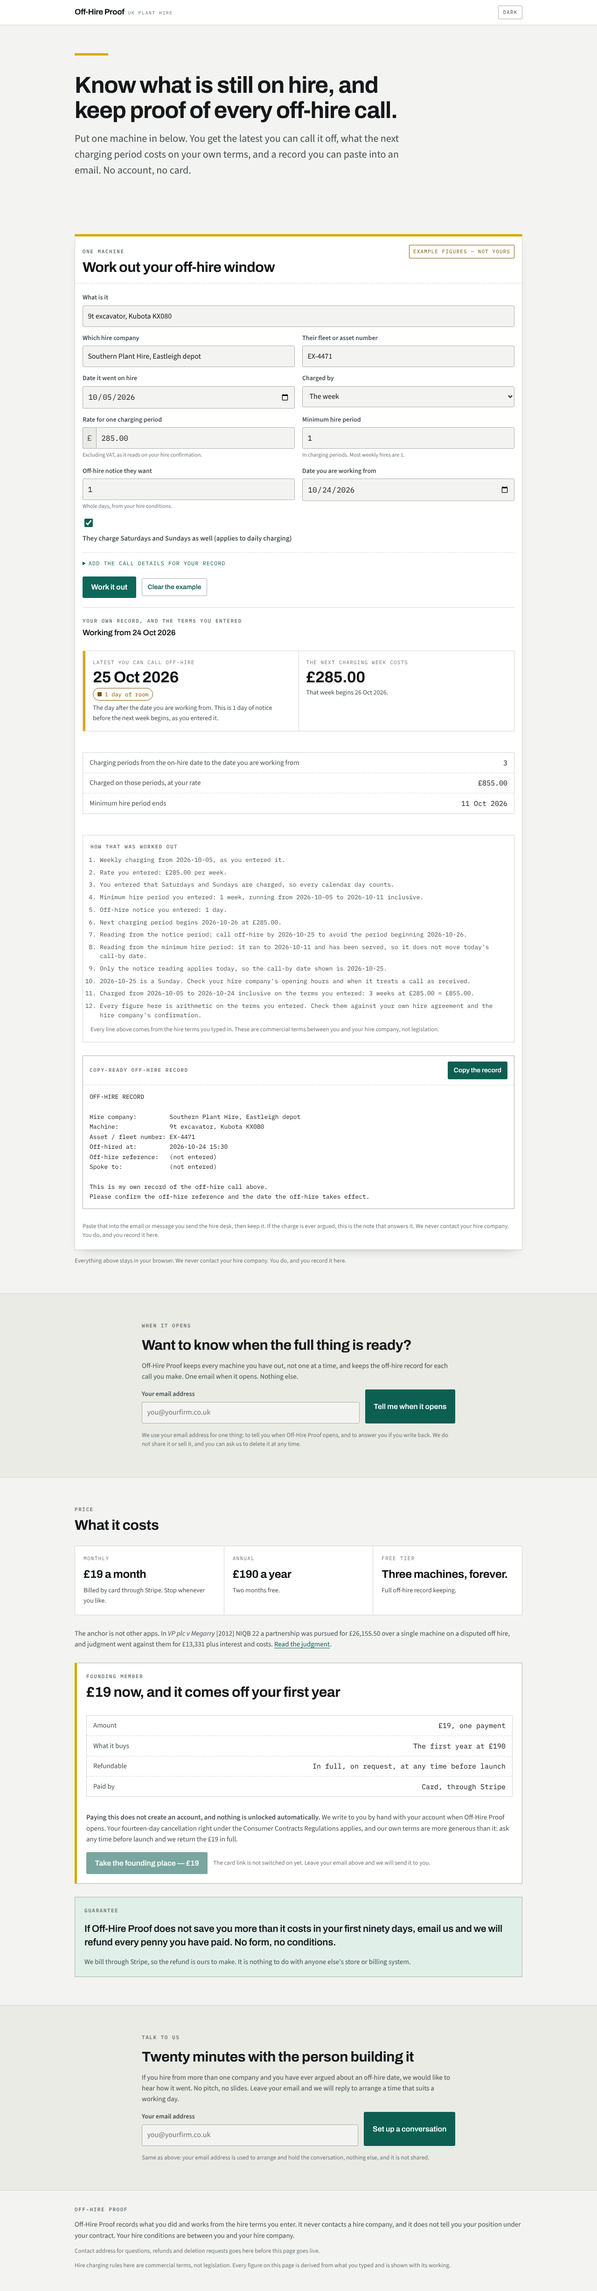
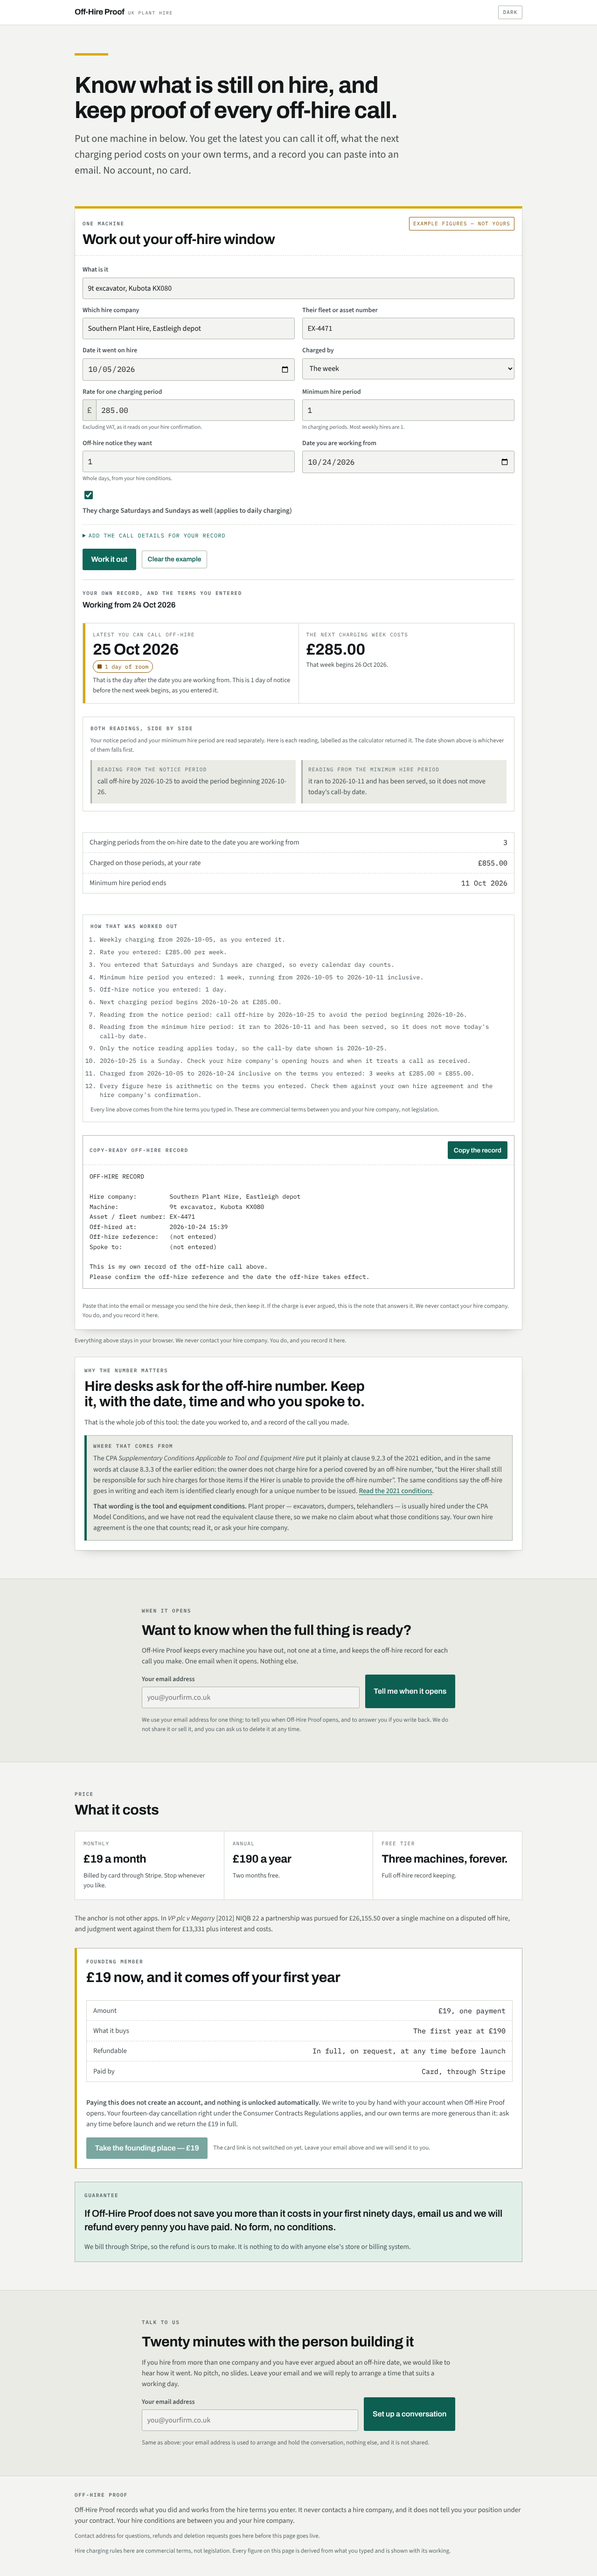
Correct the price anchor: I misread the Megarry judgment
Read the judgment in full from the NI judiciary site. The case is real —
VP plc v Megarry [2012] NIQB 22, Weatherup J, 29 February 2012 — and the
GBP 26,155.50 claim and GBP 13,331 award are both accurate numbers. My
summary of what they mean was not.

What I had wrong: GBP 13,331 is a forfeited conditional purchase
discount, not hire charges. The machine was supplied on trial with a
purchase under negotiation, so this is not a plain forgot-to-off-hire
case, and the judge reasoned that failing to pay the rental forfeited a
discount granted on condition it was paid. Describing it as what a
disputed off-hire cost overstated it, and it was holding up the price.

What survives, and is the better argument anyway: the hirers believed
the machine was off hire because the hire company's own phone log
carried an entry reading "off hire" under 'reference'. The hire company
said it meant an automated reminder about a seven-day notice period. The
hirers had no record of their own and lost the point. That is precisely
the product.

OFFER.md now states the case accurately, bans any claim that a forgotten
off-hire costs GBP 13,331 in hire charges, and moves the pricing
rationale onto arithmetic a user can check: one missed weekly charge at
published rates exceeds a month of subscription.

Landing page rewritten to match — it now makes no claim about what a
forgotten off-hire costs.

Third citation problem on this product, two of them mine. All three were
[…]

Changed region(s): [[0.125, 0.0, 0.875, 0.9967], [0.5, 0.0934, 0.625, 0.218], [0.6875, 0.0934, 0.7812, 0.1246]]

diff --git a/landing/index.html b/landing/index.html
@@ -17,7 +17,7 @@
   --surface-2:#e9ebe4;
   --ink:#14181a;
   --ink-2:#464f52;
-  --ink-3:#6b7478;
+  --ink-3:#5d666a;
   --line:#d2d7ce;
   --line-strong:#a9b0a7;
   --accent:#0d5f52;
@@ -138,7 +138,8 @@ a:hover{text-decoration-thickness:2px}
 .themebtn:hover{color:var(--ink);border-color:var(--ink-3)}
 
 /* ---- hero ---- */
-.hero>.wrap{padding-block:clamp(1.75rem,5vw,3rem) clamp(1.25rem,3vw,1.75rem)}
+.hero>.wrap{padding-block:clamp(1.5rem,4vw,2.5rem) clamp(1rem,2vw,1.25rem)}
+#tool-section>.wrap{padding-block:0 clamp(2.25rem,6vw,3.75rem)}
 .hero h1{max-width:22em}
 .hero .lede{font-size:clamp(1.125rem,3.6vw,1.375rem);color:var(--ink-2)}
 .hirule{height:5px;width:4.5rem;background:var(--hivis);margin-bottom:1.25rem}
@@ -238,6 +239,9 @@ details.extras[open]>summary{margin-bottom:.875rem}
 .basis{border:1px solid var(--line);background:var(--surface);padding:1rem}
 .basis ol{margin:.65rem 0 0;padding-left:1.25rem;display:flex;flex-direction:column;gap:.45rem}
 .basis li{font-family:var(--font-data);font-size:.8125rem;line-height:1.5;color:var(--ink-2);overflow-wrap:anywhere}
+.readings{display:grid;grid-template-columns:1fr;gap:.75rem}
+@media (min-width:34rem){.readings{grid-template-columns:1fr 1fr}}
+.reading{display:flex;flex-direction:column;gap:.3rem;min-width:0;padding:.75rem;background:var(--surface-2);border-left:3px solid var(--line-strong);font-size:.9375rem;color:var(--ink-2)}
 
 .record{border:1px solid var(--line-strong);background:var(--surface)}
 .record__head{display:flex;flex-wrap:wrap;gap:.5rem;align-items:center;justify-content:space-between;padding:.75rem .875rem;border-bottom:1px dashed var(--line)}
@@ -397,6 +401,33 @@ footer.band>.wrap{padding-block:2rem 2.75rem;display:flex;flex-direction:column;
       </div>
     </div>
     <p class="fine" style="margin-top:.875rem">Everything above stays in your browser. We never contact your hire company. You do, and you record it here.</p>
+
+    <div class="card" style="margin-top:1.5rem">
+      <div class="stack">
+        <div class="stack stack--tight">
+          <p class="eyebrow">Why the number matters</p>
+          <h2>Hire desks ask for the off-hire number. Keep it, with the date, time and who you spoke to.</h2>
+        </div>
+        <p class="small">That is the whole job of this tool: the date you worked to, and a record of
+          the call you made.</p>
+        <div class="notice" style="border-left-color:var(--accent)">
+          <p class="eyebrow" style="margin-bottom:.4rem">Where that comes from</p>
+          <p>The CPA <em>Supplementary Conditions Applicable to Tool and Equipment Hire</em> put it
+            plainly at clause 9.2.3 of the 2021 edition, and in the same words at clause 8.3.3 of the
+            earlier edition: the owner does not charge hire for a period covered by an off-hire
+            number, <q>but the Hirer shall still be responsible for such hire charges for those items
+            if the Hirer is unable to provide the off-hire number</q>. The same conditions say the
+            off-hire goes in writing and each item is identified clearly enough for a unique number
+            to be issued.
+            <a href="https://www.ardenthire.com/file/2021-tool-and-equipment-hire-supplmentary-conditions.pdf" rel="noopener">Read the 2021 conditions</a>.</p>
+          <p style="margin-top:.6rem"><strong>That wording is the tool and equipment conditions.</strong>
+            Plant proper — excavators, dumpers, telehandlers — is usually hired under the CPA Model
+            Conditions, and we have not read the equivalent clause there, so we make no claim about
+            what those conditions say. Your own hire agreement is the one that counts; read it, or
+            ask your hire company.</p>
+        </div>
+      </div>
+    </div>
   </div>
 </section>
 
@@ -445,10 +476,13 @@ footer.band>.wrap{padding-block:2rem 2.75rem;display:flex;flex-direction:column;
       </div>
     </div>
 
-    <p class="small">The anchor is not other apps. In <em>VP plc v Megarry</em> [2012] NIQB 22 a
-      partnership was pursued for £26,155.50 over a single machine on a disputed off hire, and
-      judgment went against them for £13,331 plus interest and costs.
-      <a href="https://www.bailii.org/nie/cases/NIHC/QB/2012/22.html" rel="noopener">Read the judgment</a>.</p>
+    <p class="small">The anchor is not other apps, it is one missed charging period. In
+      <em>VP plc v Megarry</em> [2012] NIQB 22 the hirers believed a machine was off hire because
+      of an entry reading &ldquo;off hire&rdquo; in the hire company&rsquo;s own phone log. The hire
+      company said that entry meant something else. The hirers had no record of their own, and they
+      lost the point. What the judgment awarded was a forfeited purchase discount rather than hire
+      charges, so we make no claim here about what a forgotten off-hire costs &mdash; only that
+      your own record is the one you can rely on.</p>
 
     <div class="deposit" id="deposit">
       <div class="stack">
@@ -749,10 +783,15 @@ function readTerms() {
 /* Describes the number the engine returned. It does not judge it. */
 function describeDays(n) {
   if (!Number.isFinite(n)) return { text: "", chip: "", chipClass: "chip--near" };
-  if (n > 1) return { text: n + " days after the date you are working from.", chip: n + " days of room", chipClass: n <= 3 ? "chip--near" : "chip--ahead" };
-  if (n === 1) return { text: "The day after the date you are working from.", chip: "1 day of room", chipClass: "chip--near" };
-  if (n === 0) return { text: "The same day you are working from.", chip: "Today", chipClass: "chip--near" };
-  return { text: Math.abs(n) + " days earlier than the date you are working from.", chip: Math.abs(n) + " days behind", chipClass: "chip--behind" };
+  if (n > 1) return { text: "That is " + n + " days after the date you are working from.", chip: n + " days of room", chipClass: n <= 3 ? "chip--near" : "chip--ahead" };
+  if (n === 1) return { text: "That is the day after the date you are working from.", chip: "1 day of room", chipClass: "chip--near" };
+  if (n === 0) return { text: "That is the same day you are working from.", chip: "That day is today", chipClass: "chip--near" };
+  const d = Math.abs(n);
+  return {
+    text: "That date is " + d + " day" + (d === 1 ? "" : "s") + " before the date you are working from.",
+    chip: d + " day" + (d === 1 ? "" : "s") + " before today",
+    chipClass: "chip--behind"
+  };
 }
 
 function render(win, record, terms, today) {
@@ -763,6 +802,25 @@ function render(win, record, terms, today) {
   const periodWord = terms.chargePeriod === "day" ? "day" : "week";
 
   const basis = (win.basis || []).map((line) => "<li>" + escapeHtml(line) + "</li>").join("");
+
+  /* The engine returns one labelled line per reading when the notice period and the
+     minimum hire period give different call-by dates. Both are shown side by side;
+     the page never drops one of them. */
+  const readingLines = (win.basis || []).filter((line) => /^reading from/i.test(String(line).trim()));
+  const readings = readingLines.length < 2 ? "" : [
+    '<div class="basis">',
+      '<p class="eyebrow">Both readings, side by side</p>',
+      '<p class="fine" style="margin:.5rem 0 .75rem">Your notice period and your minimum hire period are read separately. Here is each reading, labelled as the calculator returned it. The date shown above is whichever of them falls first.</p>',
+      '<div class="readings">',
+        readingLines.map((line) => {
+          const at = String(line).indexOf(":");
+          const label = at > 0 ? String(line).slice(0, at) : "Reading";
+          const body = at > 0 ? String(line).slice(at + 1).trim() : String(line);
+          return '<div class="reading"><span class="tile__label">' + escapeHtml(label) + '</span><span>' + escapeHtml(body) + '</span></div>';
+        }).join(""),
+      '</div>',
+    '</div>'
+  ].join("");
 
   resultBox.innerHTML = [
     '<div class="stack stack--loose">',
@@ -785,6 +843,8 @@ function render(win, record, terms, today) {
           '<span class="tile__note">That ' + periodWord + ' begins ' + escapeHtml(ukDate(win.nextChargeDate)) + '.</span>',
         '</div>',
       '</div>',
+
+      readings,
 
       '<dl class="rows">',
         '<div><dt class="k">Charging periods from the on-hire date to the date you are working from</dt><dd class="v">' + escapeHtml(String(win.periodsCharged)) + '</dd></div>',

diff --git a/validation/OFFER.md b/validation/OFFER.md
@@ -66,11 +66,42 @@ No account, no email, no paywall in front of it. Under sixty seconds.
 | Annual | **£190 a year** (two months free) |
 | Free tier | **Three machines, forever.** Full off-hire record keeping. |
 
-Anchored to the problem, not to competitors: the only verified figure for personal exposure is
-*VP plc v Megarry* [2012] NIQB 22 `[verified-fetch]`, a partnership pursued for £26,155.50 over one
-machine, judgment £13,331 plus interest and costs, on a disputed "off hire". Competitor anchors for
-sanity only: Risk Assessor Pro £18 per user per month, Fast RAMS £12.99 one-off, HandsHQ £275 a
-month demo-gated.
+Anchored to the problem, not to competitors.
+
+**The anchor, corrected 2026-10-24 after reading the judgment in full.** An earlier draft of this
+file described *VP plc v Megarry* [2012] NIQB 22 as "a partnership pursued for £26,155.50 over one
+machine, judgment £13,331 plus interest and costs, on a disputed off hire". The case is real and I
+have now read it `[verified-fetch]`
+(<https://www.judiciaryni.uk/judicial-decisions/2012-niqb-22>, Weatherup J, delivered 29 February
+2012) — **but my summary misrepresented the money, and that matters because it was holding up the
+price.**
+
+What the judgment actually says:
+
+- VP plc claimed **£26,155.50** for the hire of an HB80 Hydroburst, charged 1 February to 31 March
+  2008. That figure is correct.
+- The machine had been supplied **on trial, with a purchase under negotiation**. This is not a
+  plain hire-and-forgot-to-off-hire case.
+- The off-hire dispute is real and is the useful part. The plaintiff's own office log carried an
+  entry for 8 February 2008 with the words **"off hire"** under the heading 'reference'. The
+  defendants relied on that entry as confirmation the machine was off hire. The plaintiff's witness
+  said it meant something else — an automated reminder about the expiry of a seven-day notice
+  period. The hirers had **no record of their own** and lost the point.
+- Judgment was **£13,331** plus interest at 4% and costs — but that sum is a **forfeited conditional
+  purchase discount**, not hire charges. The judge reasoned that the consequence of not paying the
+  rental was that the defendants forfeited a discount granted on condition the rental was paid.
+
+**So the honest use of this case is narrow.** It is evidence that a hirer who relies on the hire
+company's own ambiguous record, instead of keeping their own, can lose the argument and a large sum
+with it. It is **not** evidence that forgetting to off-hire costs £13,331 in hire charges, and
+nobody may write that. Any claim implying the latter is a banned claim under this file.
+
+**Pricing therefore rests on arithmetic the user can check themselves**, not on this case: one
+missed weekly charge at the rates hirers actually publish exceeds a month of subscription. Show
+that arithmetic rather than waving a judgment at people.
+
+Competitor anchors for sanity only: Risk Assessor Pro £18 per user per month, Fast RAMS £12.99
+one-off, HandsHQ £275 a month demo-gated.
 
 ## Guarantee — honest, and ours to honour because we bill through Stripe
 
